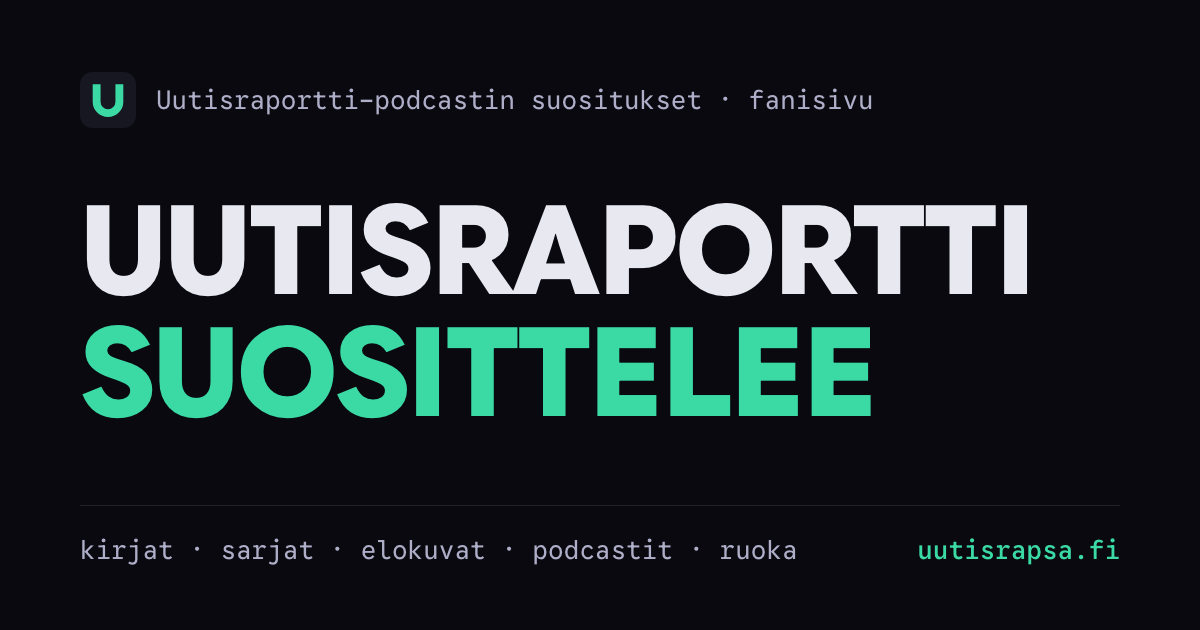
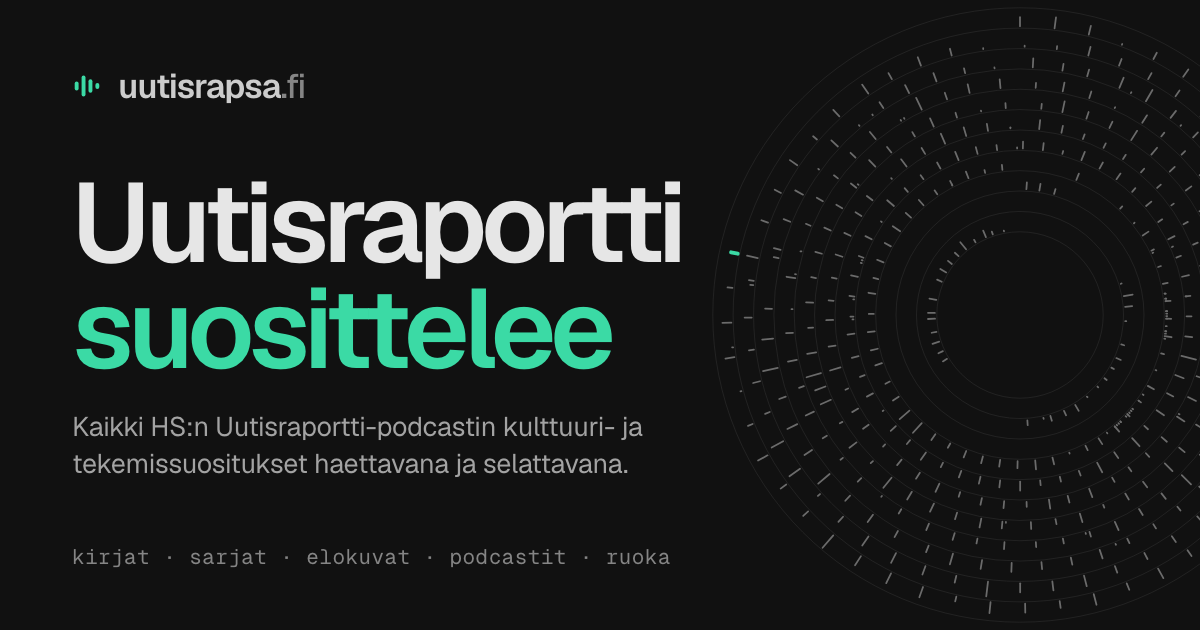
Uudet ikonit ja jakokuva Muotokirja-ilmeeseen, Androidille oma kotinäyttöikoni
Favicon, iOS:n kotinäyttöikoni ja Androidin ikonit käyttävät yläpalkin
äänipalkkimerkkiä. Linkin jakokuvassa on uusi ilme ja etusivun vuosirengaskuvio.

diff --git a/kuvalahteet/og-image.html b/kuvalahteet/og-image.html
@@ -1,41 +1,71 @@
 <!DOCTYPE html>
-<!-- Jakokuvan (og-image.png, 1200×630) lähde. Renderöinti: kuvalahteet/tee_kuvat.sh -->
+<!-- Jakokuvan (og-image.png, 1200×630) lähde, Muotokirja-ilme (19.10.2026). Oikean reunan
+     vuosirengaskuvio piirretään ../suositukset.jsonista samalla geometrialla kuin etusivun
+     renderHeroKuvio (app.js) — ei lukumääriä tekstinä, jotta kuva ei vanhene.
+     Renderöinti: kuvalahteet/tee_kuvat.sh -->
 <html lang="fi"><head><meta charset="UTF-8">
-<link href="https://fonts.googleapis.com/css2?family=Google+Sans+Flex:wght@400..800&family=Google+Sans+Code:wght@400..500&display=block" rel="stylesheet">
+<link href="https://fonts.googleapis.com/css2?family=Geist:wght@400..700&family=Geist+Mono:wght@400..500&display=block" rel="stylesheet">
 <style>
   * { margin: 0; padding: 0; box-sizing: border-box; }
-  html, body { width: 1200px; height: 630px; background: #09090f; overflow: hidden; }
+  html, body { width: 1200px; height: 630px; background: #111111; overflow: hidden; }
   body {
-    display: flex; flex-direction: column; justify-content: space-between;
-    padding: 72px 80px 64px;
-    color: #e8e8f0;
-    font-family: 'Google Sans Flex', sans-serif;
+    position: relative;
+    color: #cccccc;
+    font-family: 'Geist', sans-serif;
     -webkit-font-smoothing: antialiased;
   }
-  .ylaosa { display: flex; align-items: center; gap: 20px; }
-  .ylaosa svg { width: 56px; height: 56px; }
-  .ylaosa span { font-family: 'Google Sans Code', monospace; font-size: 26px; color: #aeaec9; }
-  h1 {
-    font-size: 124px; font-weight: 800; line-height: 0.98;
-    letter-spacing: -0.022em; text-transform: uppercase;
-    margin-top: -8px;
+  .sisalto {
+    position: relative; z-index: 1;
+    display: flex; flex-direction: column; justify-content: space-between;
+    width: 700px; height: 630px; padding: 64px 0 60px 72px;
   }
+  .merkki { display: flex; align-items: center; gap: 16px; font-size: 34px; font-weight: 600; letter-spacing: -0.03em; }
+  .merkki svg { width: 30px; height: 30px; fill: #3bdaa5; }
+  .merkki span span { color: #858585; font-weight: 500; }
+  h1 { font-size: 112px; font-weight: 600; line-height: 0.95; letter-spacing: -0.05em; color: #e6e6e6; }
   h1 span { display: block; color: #3bdaa5; }
-  .alaosa {
-    display: flex; justify-content: space-between; align-items: baseline;
-    border-top: 1px solid rgba(255, 255, 255, 0.10);
-    padding-top: 28px;
-    font-family: 'Google Sans Code', monospace; font-size: 26px; color: #aeaec9;
-  }
-  .alaosa b { font-weight: 500; color: #3bdaa5; }
+  p { margin-top: 28px; font-size: 27px; line-height: 1.35; color: #a3a3a3; letter-spacing: -0.01em; }
+  .alaosa { font-family: 'Geist Mono', monospace; font-size: 21px; color: #858585; letter-spacing: 0.02em; }
+  #kuvio { position: absolute; left: 700px; top: -5px; width: 640px; height: 640px; color: #6b6b6b; }
+  .rengas { fill: none; stroke: rgba(204, 204, 204, 0.12); stroke-width: 0.5; }
+  .sade { stroke: currentColor; stroke-width: 1.1; stroke-linecap: round; }
+  .uusin { stroke: #3bdaa5; stroke-width: 2.4; }
 </style></head><body>
-  <div class="ylaosa">
-    <svg viewBox="0 0 64 64"><rect width="64" height="64" rx="14" fill="#171721"/><path d="M19 14v20a13 13 0 0 0 26 0V14" fill="none" stroke="#3bdaa5" stroke-width="9"/></svg>
-    <span>Uutisraportti-podcastin suositukset · fanisivu</span>
+  <div class="sisalto">
+    <div class="merkki">
+      <svg viewBox="-0.8 0 20 20"><rect x="1" y="7" width="2.6" height="6" rx="1.3"/><rect x="5.6" y="3" width="2.6" height="14" rx="1.3"/><rect x="10.2" y="5.5" width="2.6" height="9" rx="1.3"/><rect x="14.8" y="8" width="2.6" height="4" rx="1.3"/></svg>
+      <span>uutisrapsa<span>.fi</span></span>
+    </div>
+    <div>
+      <h1>Uutisraportti<span>suosittelee</span></h1>
+      <p>Kaikki HS:n Uutisraportti-podcastin kulttuuri- ja tekemissuositukset haettavana ja selattavana.</p>
+    </div>
+    <div class="alaosa">kirjat · sarjat · elokuvat · podcastit · ruoka</div>
   </div>
-  <h1>Uutisraportti<span>suosittelee</span></h1>
-  <div class="alaosa">
-    <span>kirjat · sarjat · elokuvat · podcastit · ruoka</span>
-    <b>uutisrapsa.fi</b>
-  </div>
+  <div id="kuvio"></div>
+<script>
+// Sama geometria kuin app.js:n renderHeroKuvio
+fetch('../suositukset.json').then(r => r.json()).then(data => {
+  const jaksot = [];
+  for (const j of data) {
+    const m = /^(\d{1,2})\.(\d{1,2})\.(\d{4})$/.exec((j.paivamaara || '').trim());
+    if (!m) continue;
+    jaksot.push({ pvm: new Date(+m[3], +m[2] - 1, +m[1]), n: (j.suositukset || []).filter(r => !r.piilotettu).length });
+  }
+  const vuodet = jaksot.map(j => j.pvm.getFullYear());
+  const eka = Math.min(...vuodet), vika = Math.max(...vuodet);
+  const R0 = 52, R1 = 192, vali = (R1 - R0) / (vika - eka + 1);
+  const sade = v => R0 + (v - eka) * vali, f = x => x.toFixed(1);
+  let s = '';
+  for (let v = eka; v <= vika + 1; v++) s += `<circle class="rengas" r="${f(sade(v))}"/>`;
+  jaksot.sort((a, b) => a.pvm - b.pvm);
+  jaksot.forEach((j, i) => {
+    const kulma = ((j.pvm - new Date(j.pvm.getFullYear(), 0, 1)) / 864e5 / 366) * 2 * Math.PI - Math.PI / 2;
+    const r1 = sade(j.pvm.getFullYear()) + 1.2, r2 = r1 + Math.min(vali - 2.4, 0.6 + j.n * 1.25);
+    const c = Math.cos(kulma), si = Math.sin(kulma);
+    s += `<line class="sade${i === jaksot.length - 1 ? ' uusin' : ''}" x1="${f(r1 * c)}" y1="${f(r1 * si)}" x2="${f(r2 * c)}" y2="${f(r2 * si)}"/>`;
+  });
+  document.getElementById('kuvio').innerHTML = `<svg viewBox="-200 -200 400 400" width="640" height="640">${s}</svg>`;
+});
+</script>
 </body></html>

diff --git a/kuvalahteet/ikoni.html b/kuvalahteet/ikoni.html
@@ -1,12 +1,22 @@
 <!DOCTYPE html>
-<!-- Apple touch -ikonin ja faviconin lähde: renderöidään kuvalahteet/tee_kuvat.sh:lla.
-     Täysi neliö ilman pyöristystä – iOS pyöristää kulmat itse. -->
-<html><head><style>
-  html, body { margin: 0; background: #09090f; }
+<!-- Ikonien lähde (720×720): apple-touch-icon.png, Androidin ikoni-192/512.png ja favicon.ico.
+     Merkki = yläpalkin sanamerkin äänipalkit (index.html .sanamerkki-ikoni), ikonikokoon hieman
+     paksumpina. ?pyorea = pyöristetyt kulmat (favicon.ico; iOS ja Android pyöristävät itse).
+     Renderöinti: kuvalahteet/tee_kuvat.sh. favicon.svg on sama kuvio käsin kirjoitettuna. -->
+<html lang="fi"><head><meta charset="UTF-8">
+<style>
+  * { margin: 0; padding: 0; }
+  html, body { width: 720px; height: 720px; background: transparent; overflow: hidden; }
   svg { display: block; width: 720px; height: 720px; }
 </style></head><body>
-<svg viewBox="0 0 64 64" preserveAspectRatio="xMidYMid meet">
-  <rect width="64" height="64" fill="#09090f"/>
-  <path d="M19 14v20a13 13 0 0 0 26 0V14" fill="none" stroke="#3bdaa5" stroke-width="9"/>
+<svg viewBox="0 0 64 64" xmlns="http://www.w3.org/2000/svg">
+  <rect id="pohja" width="64" height="64" fill="#111111"/>
+  <g fill="#3bdaa5">
+    <rect x="12" y="24.3" width="7" height="15.4" rx="3.5"/>
+    <rect x="23" y="14" width="7" height="36" rx="3.5"/>
+    <rect x="34" y="20.45" width="7" height="23.1" rx="3.5"/>
+    <rect x="45" y="26.85" width="7" height="10.3" rx="3.5"/>
+  </g>
 </svg>
+<script>if (location.search.includes('pyorea')) document.getElementById('pohja').setAttribute('rx', 14);</script>
 </body></html>

diff --git a/index.html b/index.html
@@ -14,6 +14,7 @@
   <link rel="icon" href="/favicon.ico" sizes="48x48">
   <link rel="icon" href="/favicon.svg" type="image/svg+xml">
   <link rel="apple-touch-icon" href="/apple-touch-icon.png">
+  <link rel="manifest" href="/site.webmanifest">
   <link rel="preconnect" href="https://fonts.googleapis.com">
   <link rel="preconnect" href="https://fonts.gstatic.com" crossorigin>
   <link href="https://fonts.googleapis.com/css2?family=Geist:wght@400..700&family=Geist+Mono:wght@400..500&display=swap"
@@ -39,7 +40,7 @@
   <meta property="og:locale" content="fi_FI">
   <meta property="og:description"
     content="Kaikki Helsingin Sanomien Uutisraportti-podcastin kulttuuri- ja kulutussuositukset yhdessä paikassa.">
-  <meta property="og:image" content="https://uutisrapsa.fi/og-image.png">
+  <meta property="og:image" content="https://uutisrapsa.fi/og-image.png?v=3">
   <meta property="og:image:width" content="1200">
   <meta property="og:image:height" content="630">
   <meta property="og:image:alt" content="Uutisraportti suosittelee – uutisrapsa.fi">
@@ -49,7 +50,7 @@
   <meta property="twitter:title" content="Uutisraportti suosittelee">
   <meta property="twitter:description"
     content="Kaikki Helsingin Sanomien Uutisraportti-podcastin kulttuuri- ja kulutussuositukset yhdessä paikassa.">
-  <meta property="twitter:image" content="https://uutisrapsa.fi/og-image.png">
+  <meta property="twitter:image" content="https://uutisrapsa.fi/og-image.png?v=3">
 </head>
 
 <body>

diff --git a/kiitos.html b/kiitos.html
@@ -7,6 +7,7 @@
   <link rel="icon" href="/favicon.ico" sizes="48x48">
   <link rel="icon" href="/favicon.svg" type="image/svg+xml">
   <link rel="apple-touch-icon" href="/apple-touch-icon.png">
+  <link rel="manifest" href="/site.webmanifest">
   <link rel="preconnect" href="https://fonts.googleapis.com">
   <link rel="preconnect" href="https://fonts.gstatic.com" crossorigin>
   <link href="https://fonts.googleapis.com/css2?family=Geist:wght@400..700&family=Geist+Mono:wght@400..500&display=swap" rel="stylesheet">

diff --git a/muutokset.html b/muutokset.html
@@ -7,6 +7,7 @@
   <link rel="icon" href="/favicon.ico" sizes="48x48">
   <link rel="icon" href="/favicon.svg" type="image/svg+xml">
   <link rel="apple-touch-icon" href="/apple-touch-icon.png">
+  <link rel="manifest" href="/site.webmanifest">
   <link rel="preconnect" href="https://fonts.googleapis.com">
   <link rel="preconnect" href="https://fonts.gstatic.com" crossorigin>
   <link href="https://fonts.googleapis.com/css2?family=Geist:wght@400..700&family=Geist+Mono:wght@400..500&display=swap" rel="stylesheet">

diff --git a/CLAUDE.md b/CLAUDE.md
@@ -23,7 +23,7 @@ The **Impeccable** design skill (impeccable.style, v4.3.1) is installed project-
 
 **Figma is the design source since 25.9.2026** (https://www.figma.com/design/B5mxiRtOqDNRYgmpsyNCJi/Uutisrapsa). Page "v1 · Nykyinen live-ilme" mirrors the current live site (old purple Inter look; variable collection "v1 · Live-ilme", styles/components prefixed `v1/`); page "v2 · Uusi ilme" is the new look (collection "v2 · Uusi ilme", `v2/` styles/components); "v2 · Luonnokset" holds the user's own rough drafts. **v2 was live on main 27.9.–19.10.2026** (archived as git tag `ilme-v2-vihrea`; since 19.10.2026 the live look is "Muotokirja", see below — Figma does not show it yet) (built on `dev`, merged to main; the old v1 look is preserved in the git tag `ilme-v1-violetti` — restore with `git checkout ilme-v1-violetti -- style.css index.html app.js kiitos.html muutokset.html`): Google Sans Flex (headings, body) + Google Sans Code (metadata: recommender, dates, inputs, buttons, links, tags, footer) from Google Fonts; green accent `#3bdaa5` instead of purple; no glows or shadows; greyish violet-tinted surfaces; neutral category badges; link chips without emojis (order since 19.10.2026, user wish: the rec's own links — service-labelled `lisatieto_linkki` or the podcast listening chips — come first and the Google chip is always last, `rakennaLinkit()` in `app.js`; the `lisatieto_linkki` chip is labelled by service — `LINKKIEN_NIMET` host→name map + `linkinNimi()` in `app.js`, since 27.9.2026: Goodreads, IMDb, Spotify, Supla, Yle Areena, HS, NYT, Instagram, museums, theatres …; matched on hostname with more specific hosts listed first, e.g. `areena.yle.fi` before `yle.fi`; unknown hosts and a work's own website fall back to "Lisätietoa" — add new services to the map; a Google-search `lisatieto_linkki` is not rendered at all since it would duplicate the "Google" chip (`onGoogleLinkki`); a rec with empty `google_linkki` gets no Google chip and a plain-text title — used for generic activities/habits like "Lintujen tarkkailu" or "Kylmät suihkut", 25 of which were blanked 27.9.2026, and the extraction prompt's rule 6 now tells the model to leave both links empty for such recs and never to put a Google search in `lisatieto_linkki`; the admin "Lisää suositus" form no longer copies the Google link into `lisatieto_linkki`; **podcast recs get listening chips by origin** (27.9.2026, `podcastLinkit()` in `app.js`): optional field `alkupera` = `"yle"` → only a Yle Areena search (Yle podcasts aren't on other services), `"hs"` → HS site search + Supla (HS's own podcasts are usually only on hs.fi and Supla — user fact 27.9.2026), `"hs-vain"` → HS only (the HS chip becomes a direct link when `lisatieto_linkki` points to an hs.fi page) — for HS special series that aren't even on Supla, only on hs.fi and the HS app (user fact 27.9.2026: Menetetyt miljardit; Supla-checked also Loikalan lapset; "Päätös jota ei koskaan tehty" is likely the same if it ever gets recommended), `"kotimainen"` → Spotify + Apple Podcasts + Supla, `"podme"` (Antti Holma's Antin (koulu)matka — Podme's search can't be deep-linked, some episodes are free on Spotify/Apple) and `"ulkomainen"`/missing → Spotify + Apple Podcasts (mapping `PODCASTIEN_PALVELUT`); search term = the query of the rec's `lisatieto_linkki` if it is a search URL (Spotify `/search/…` or `q`/`term`/`search_term`/`query` param — so an Areena search link can steer the Areena term), else `teos` without parentheses/subtitle/"-podcast"; a `lisatieto_linkki` pointing to a service's *direct* page (not a search URL) replaces that service's search, and a link to some other host (YouTube, show site) is shown as an extra chip. Optional podcast-only field `lisalinkit` (list of URLs, added 27.9.2026; admin UI: "Lisälinkit" textarea, one URL per line, in the podcast-only row under "Podcastin alkuperä" in both the edit and the "Lisää suositus" forms — the edit form sends `lisalinkit` in `uusi_data` only when the list differs from the stored one (emptying sends `[]`), non-http(s) lines are rejected; `sovella_korjaukset.py` carries it through additions, `scripts/generoi_validointidata.py` copies it) works the same way when one link field isn't enough — e.g. Ystäväkirja (18.5.2023): `lisatieto_linkki` = its Supla page (a Supla search would show Suomipop's same-named show first), `lisalinkit` = HS's intro article. A second direct link to a service that already has a chip (e.g. Menetetyt miljardit, 13.8.2026: HS listening page + HS Visio intro article) is shown as an extra `<Palvelu>-esittely` chip ("HS-esittely") instead of being dropped. Verified search URLs: `areena.yle.fi/hae?q=…&service=radio`, `hs.fi/haku/?query=…`, `podcasts.apple.com/fi/search?term=…`, `supla.fi/haku?search_term=…` (the old `areena…/search?q=`, `/haku?q=` and `supla.fi/search?q=` forms in old data are dead). All 159 existing podcasts were classified by hand 27.9.2026 (now 19 yle / 10 hs / 2 hs-vain / 30 kotimainen / 2 podme / 96 ulkomainen; the extraction prompt only knows `"hs"`, so `hs-vain` is set by hand); the extraction prompt's rule 6 asks the model for `alkupera` on new podcasts, `sovella_korjaukset.py` carries it through admin additions, and the admin UI has a "Podcastin alkuperä" select (`ALKUPERAT`/`alkuperaKentta()` in `admin/index.html`, shown only when pääkategoria is podcast) in both the edit and the "Lisää suositus" forms — it sends `alkupera` in `uusi_data` only for podcasts with a value chosen, so an untouched select never wipes the stored value; `scripts/generoi_validointidata.py` copies `alkupera` into `admin/epailyttavat.json` so the form shows the current value; `.rec-links` wraps); breakpoints S/M/L (≤640 / 641–1023 / ≥1024 px). The 2.10.2026 UX overhaul (see "Front-end architecture" below) changed several v2 details that Figma does not show yet: header bar, minimal hero (catchphrase headline + timeline), constant-height search bar, one-row category chips, dialogs, Tilastot; the footer "Takaisin ylös" link still uses `.tekstilinkki` (Figma `v2/Tekstilinkki`). `style.css` tokens use the Figma v2 names (`--bg-sivu`, `--teksti-toissijainen`, `--aksentti` …) with the old names kept as aliases because `muutokset.html`/`kiitos.html` use them. Inputs render at 16 px on `pointer: coarse` to stop iOS focus-zoom. **Sticky filter bar (history):** until 2.10.2026 the bar "nested" into a thin `#filterHandle` (Figma `v2/Suodatinkahva`) when scrolled, with `minifyAt()`/`expandAt()` hysteresis and `html { overflow-anchor: none }` — every variant still jumped because the sticky element changed height. Replaced 2.10.2026 by the constant-height `.tyokalupalkki` (see "Front-end architecture"); Figma's handle component is obsolete. Figma also has the "Tietoa projektista" modal and the `muutokset.html` changelog views (desktop + mobile, dark + light, 27.9.2026) with a `bg/verho` variable matching the CSS `--verho`. **Light theme (27.9.2026, dev):** Figma collection "v2 · Uusi ilme" has modes Tumma/Vaalea and each frame has a "… · vaalea" copy; light accent is a darker green `#0a7d58` (≥ 4.5:1 on white) and button text turns white. In `style.css` the light values live twice — under `@media (prefers-color-scheme: light) { :root:not([data-theme="dark"]) }` and `:root[data-theme="light"]` — so the device setting is the default and the theme switch overrides it. The switch (`#teemakytkin`, right end of the header bar since 2.10.2026, Figma `v2/Teemakytkin`) sets `<html data-theme>` and stores the choice in `localStorage` key `teema`; choosing the same theme as the device removes the stored key so the page follows the device again. An inline `<head>` script in `index.html`, `kiitos.html` and `muutokset.html` applies the stored choice before CSS loads (no flash). Hardcoded colors in CSS were replaced by tokens (`--bg-palkki`, `--verho`, `--nuoli-kuva`) so both themes cover everything. Figma's input components have a `Laite=Hiiri/Kosketus` variant (13 px vs 16 px, style `v2/Koodi/Kenttä kosketus`) matching the CSS `pointer: coarse` rule; iPad and mobile frames use Kosketus.
 
-**Search (2.10.2026):** both the public site (`suodata`/`hakuOsumat` in `app.js`) and the admin UI (`renderList`) normalize with `hakuNormalisoi` (same function in both files): lowercase, accents stripped but ä/ö/å kept, every non-letter/digit (dashes, quotes, colons) → space; the query is split into words and EVERY word must appear somewhere (any order). Searchable: teos, kuvaus, suosittelija, paakategoria, kategoriat, episode title and date (site); episode title, date, RSS participants and all rec fields (admin). Fuzzy: a word not found as a substring still matches if some word of the text STARTS with a near-identical string (`sanaLoytyy`/`lahesSama`, bounded Levenshtein: 1 edit, 2 for ≥8-letter words, prefix length from the word's own length up to +edits so inflection suffixes pass; since 2.10.2026 words <5 letters and words containing digits match exactly — before, "john" matched "jonka" and "2020" matched every 2020s date) — "ministerivaihdos" finds "Ministerinvaihdos", "severence" finds Severance; normalized text + word set are cached per rec (`r._haku`, `r._hakusanat`), a fuzzy query takes ~70 ms on desktop. Before this, "Velkajarru-laaja" didn't find "Velkajarru–laaja oppimäärä" (en dash) and "orbanin" didn't find "Orbánin". **Admin UI in the v2 look (27.9.2026):** `admin/index.html` keeps its own inline CSS but uses the same token values as `style.css` (subset, same names: `--bg-sivu`, `--aksentti` …, plus admin-only `--varoitus*` amber for suspicious recs and `--bg-upotus` for nested panels), Google Sans Flex/Code, light + dark via the same `data-theme`/`localStorage` `teema` mechanism (header theme button `vaihdaTeema()`, shared with the public site), drawn SVG icons instead of emoji (`IKONI_TOISTA`/`IKONI_TAUKO` for the player), no gradients/glows, solid sticky header. **Escaping in `admin/index.html` (27.9.2026):** `escAttr` is for HTML attribute values (`value="…"`, `<option value>`) and emits HTML entities (`&amp; &quot; &#39; &lt; &gt;`); `escJsAttr` is for a JS string literal inside an inline handler (`onclick="f('…')"`: JS escape first, then HTML escape) — currently only `audio_url` in the player button; ids and numbers are the only other interpolations into inline JS. Before this fix `escAttr` inserted JS backslashes into `value` attributes, so an apostrophe was saved as `\'` (a real bad entry, `admin/korjaukset.json` index 1, 9.4.2026 episode `d98d2fd8…` r_idx 2 "Everybody\\'s Free", is overridden by the later entry index 3, so live data is clean). **Icons + share image (27.9.2026):** brand mark = a drawn green U stroke on `#09090f` (no font dependency) — `favicon.svg` (hand-written), `favicon.ico` (48 px), `apple-touch-icon.png` (180 px, full square) and `og-image.png` (1200×630) are rendered from `kuvalahteet/ikoni.html` and `kuvalahteet/og-image.html` with headless Chrome: `sh kuvalahteet/tee_kuvat.sh` (needs Chrome, sips, ffmpeg). `og:title`/`twitter:title` are "Uutisraportti suosittelee" (was "Uutisraportti – Suosittelee"); `og:site_name` uutisrapsa.fi. The share image deliberately shows no counts (the old one went stale). Slack/Facebook cache unfurls, so old previews may linger for a while.
+**Search (2.10.2026):** both the public site (`suodata`/`hakuOsumat` in `app.js`) and the admin UI (`renderList`) normalize with `hakuNormalisoi` (same function in both files): lowercase, accents stripped but ä/ö/å kept, every non-letter/digit (dashes, quotes, colons) → space; the query is split into words and EVERY word must appear somewhere (any order). Searchable: teos, kuvaus, suosittelija, paakategoria, kategoriat, episode title and date (site); episode title, date, RSS participants and all rec fields (admin). Fuzzy: a word not found as a substring still matches if some word of the text STARTS with a near-identical string (`sanaLoytyy`/`lahesSama`, bounded Levenshtein: 1 edit, 2 for ≥8-letter words, prefix length from the word's own length up to +edits so inflection suffixes pass; since 2.10.2026 words <5 letters and words containing digits match exactly — before, "john" matched "jonka" and "2020" matched every 2020s date) — "ministerivaihdos" finds "Ministerinvaihdos", "severence" finds Severance; normalized text + word set are cached per rec (`r._haku`, `r._hakusanat`), a fuzzy query takes ~70 ms on desktop. Before this, "Velkajarru-laaja" didn't find "Velkajarru–laaja oppimäärä" (en dash) and "orbanin" didn't find "Orbánin". **Admin UI in the v2 look (27.9.2026):** `admin/index.html` keeps its own inline CSS but uses the same token values as `style.css` (subset, same names: `--bg-sivu`, `--aksentti` …, plus admin-only `--varoitus*` amber for suspicious recs and `--bg-upotus` for nested panels), Google Sans Flex/Code, light + dark via the same `data-theme`/`localStorage` `teema` mechanism (header theme button `vaihdaTeema()`, shared with the public site), drawn SVG icons instead of emoji (`IKONI_TOISTA`/`IKONI_TAUKO` for the player), no gradients/glows, solid sticky header. **Escaping in `admin/index.html` (27.9.2026):** `escAttr` is for HTML attribute values (`value="…"`, `<option value>`) and emits HTML entities (`&amp; &quot; &#39; &lt; &gt;`); `escJsAttr` is for a JS string literal inside an inline handler (`onclick="f('…')"`: JS escape first, then HTML escape) — currently only `audio_url` in the player button; ids and numbers are the only other interpolations into inline JS. Before this fix `escAttr` inserted JS backslashes into `value` attributes, so an apostrophe was saved as `\'` (a real bad entry, `admin/korjaukset.json` index 1, 9.4.2026 episode `d98d2fd8…` r_idx 2 "Everybody\\'s Free", is overridden by the later entry index 3, so live data is clean). **Icons + share image (redrawn 20.10.2026 for the Muotokirja look; the 27.9.2026 green-U versions are in tag `ilme-v2-vihrea`):** brand mark = the header wordmark's four mint sound bars (`.sanamerkki-ikoni`), drawn slightly chunkier at icon size, on `#111111` — `favicon.svg` (hand-written, rounded tile), `favicon.ico` (48 px, rounded), `apple-touch-icon.png` (180 px, full square — iOS rounds it), `ikoni-192.png`/`ikoni-512.png` (Android, listed in `site.webmanifest` as `any maskable`; the mark sits inside the 80 % safe zone; the manifest is linked from index/kiitos/muutokset) and `og-image.png` (1200×630: wordmark, "Uutisraportti / suosittelee" in Geist with the second line mint, a one-line description, and the hero's vuosirenkaat figure drawn from `suositukset.json` with the same geometry as `renderHeroKuvio`, newest-episode ray mint) are rendered from `kuvalahteet/ikoni.html` (`?pyorea` = rounded corners for the .ico) and `kuvalahteet/og-image.html` with headless Chrome: `sh kuvalahteet/tee_kuvat.sh` (needs Chrome, sips, ffmpeg; re-run occasionally if you want the share image's rings to include new episodes). The og:image URL carries a `?v=N` cache-buster — bump it when the image changes. `og:title`/`twitter:title` are "Uutisraportti suosittelee"; `og:site_name` uutisrapsa.fi. The share image deliberately shows no counts (the old one went stale). Slack/Facebook cache unfurls, so old previews may linger for a while.
 
 ## "Muotokirja" look (v3) — live since 19.10.2026
 
